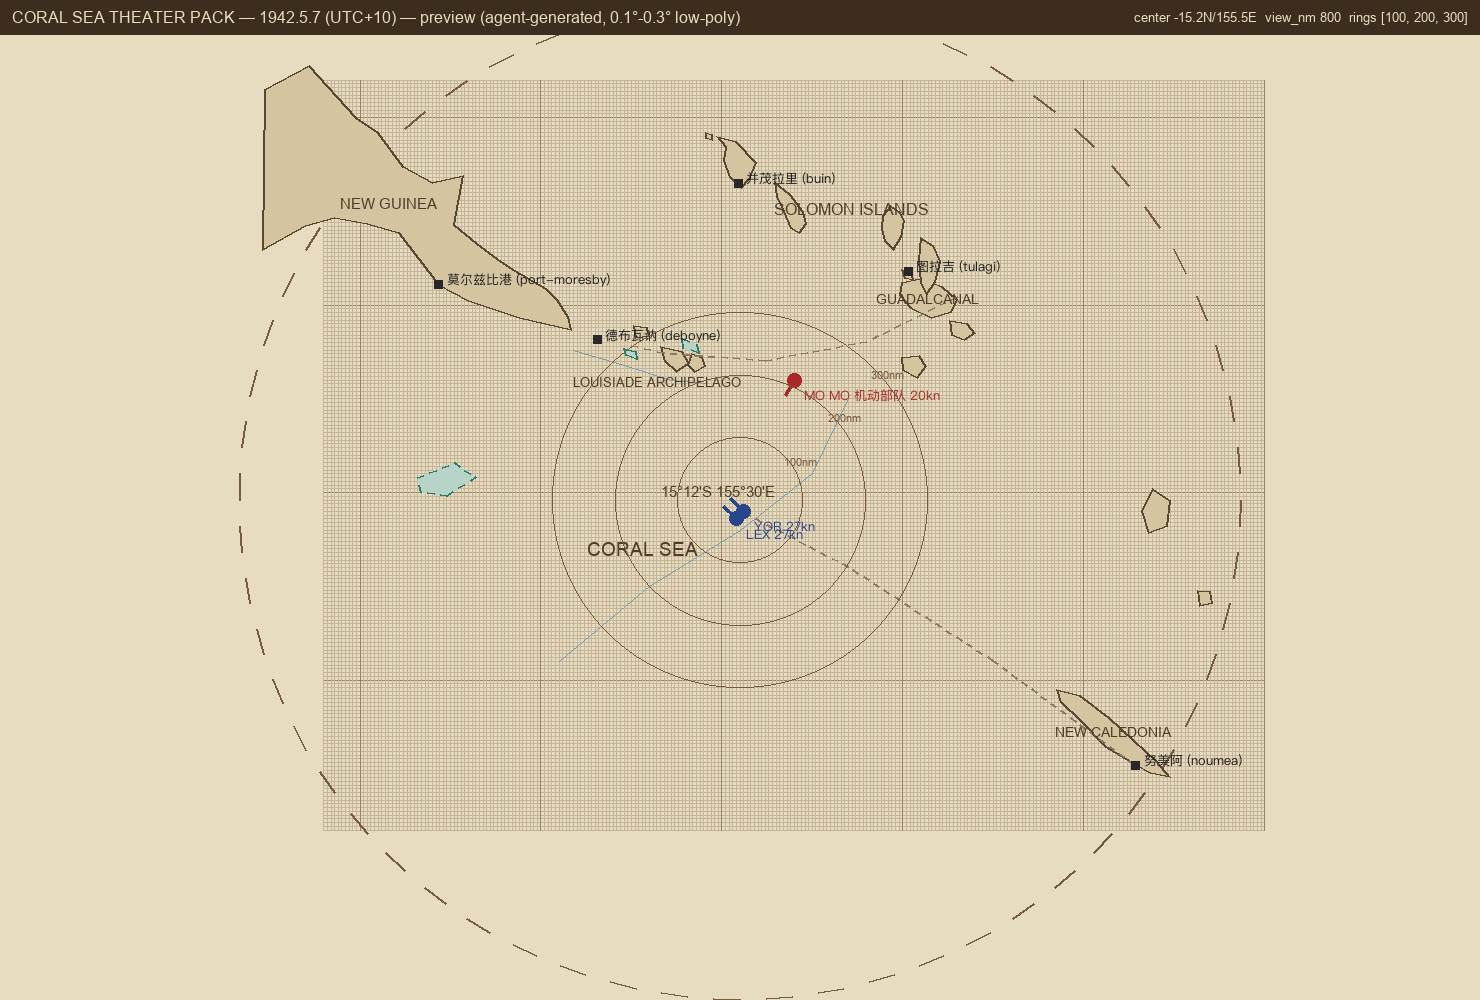
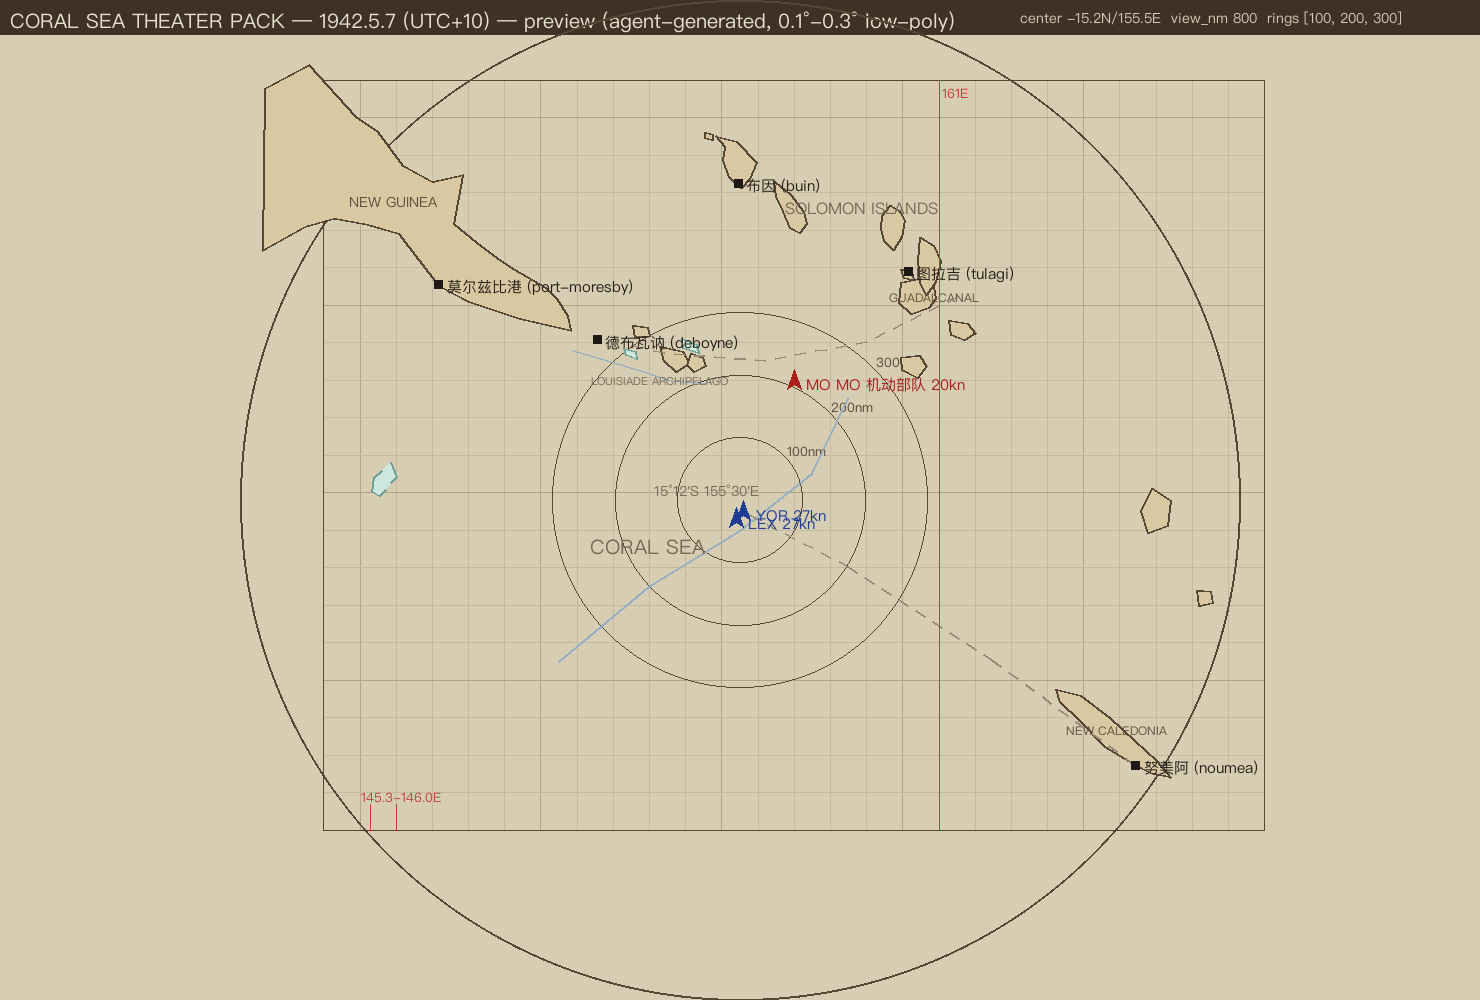
fix: 珊瑚海包修复轮 1（瓜岛东端截 160.9E、GBR 外缘礁西移、布因更名/VF-5 加注等 Minor）

diff --git a/theaters/coral-sea/README.md b/theaters/coral-sea/README.md
@@ -23,8 +23,10 @@ agent 生成；结构同构于黄金样板 `theaters/midway/`。
   （22/36/12）按行动报告 pilot 数与常见舰载机编制折算；日军 MO 机动部队（高木武雄/原忠一，
   翔鹤+瑞鹤）5 月 7 日黎明在所罗门群岛间海域西进重新入场，双方处于互相搜索状态。
 - 关键点真坐标（≤0.3° 容差自检）：莫尔兹比港 9.44S/147.18E、图拉吉 9.1S/160.15E、
-  努美阿 22.27S/166.44E、布因（并茂拉里）6.75S/155.45E、德布瓦讷 10.93S/151.55E、
+  努美阿 22.27S/166.44E、布因 6.75S/155.45E、德布瓦讷 10.93S/151.55E、
   东角（East Cape）10.68S/150.85E、乔马德水道 ~11.2S/152.4E。
+  地理订正（评审修复轮 1）：瓜达尔卡纳尔东端（Marau Sound）截到 160.9°E（原 161.5°E 超差）、
+  岛宽收敛至 0.95° 纬度；大堡礁外缘礁段西移至 145.35-146.0°E 带（Ribbon Reef 5=145.78°E）。
 
 ## 许可证
 
@@ -46,7 +48,8 @@ agent 生成；结构同构于黄金样板 `theaters/midway/`。
   取景中心（-15.2, 155.5，列克星敦战沉点）343-762nm——220nm 内无任何史实基地与岛屿，且
   §六 标准 1 要求基地真坐标（不许占位偏移）。取 800nm 后史实地理（新几内亚东段—所罗门链—
   路易西亚德—新喀里多尼亚—新赫布里底）与全部基地入画，环距 100/200/300 嵌套成立。
-  中心坐标、环距、时区（UTC+10）、网格步进（1.0/5.0）保持任务书指定值。
+  中心坐标、环距、时区（UTC+10）、网格步进（1.0/5.0）出处：CHART_SYSTEM §三 schema 示例 +
+  自选 05-07 开局（非任务书指定值）。
 - 时钟：clock_start 1942-05-06T21:00Z = 当地（UTC+10）5 月 7 日 07:00 黎明（5 月 7 日主力
   交锋日开局）；date 字段按任务书为 1942-05-07。
 - bases 类型口径：图拉吉=日占水上机基地（Gavutu，capacity 24）、布因=日占基地（Shortland/
